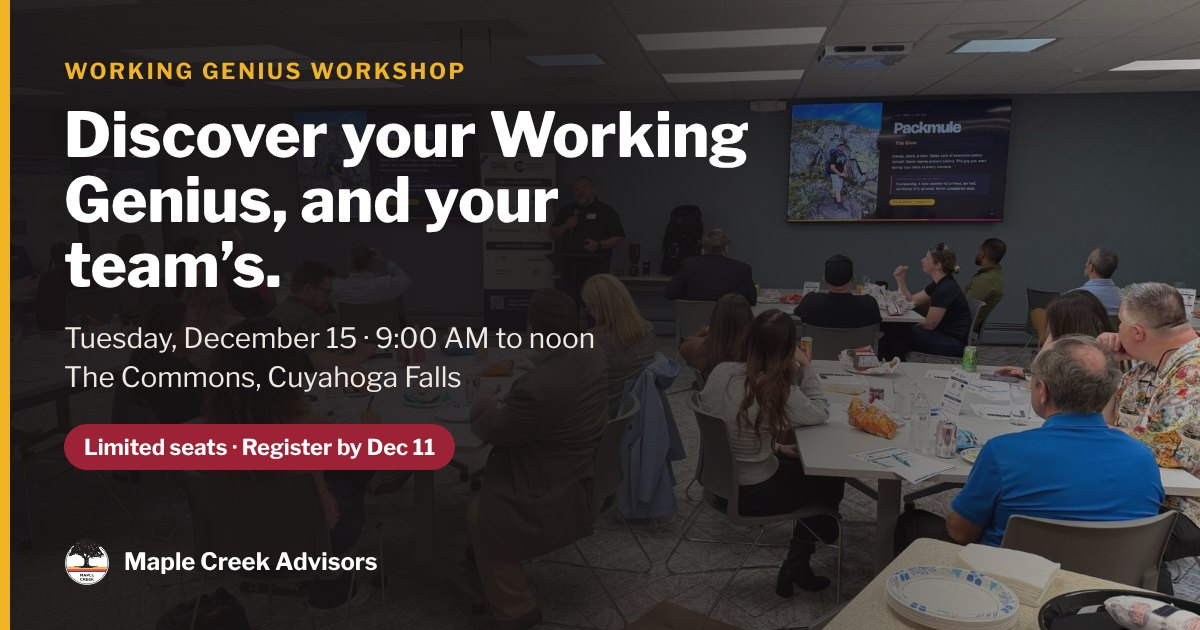
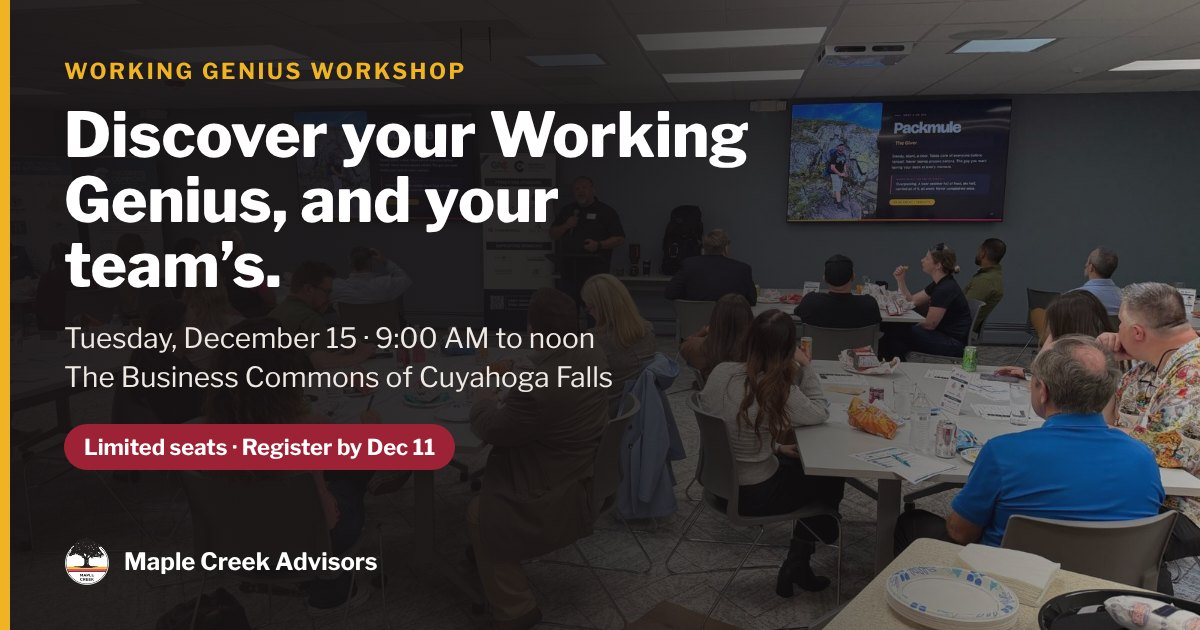
Regenerate event link previews with the full venue name
Claude-Session: https://claude.ai/code/session_01T83r77Z5JHMrRA2ym1GXY8

Changed region(s): [[0.0925, 0.573, 0.5242, 0.6333]]

diff --git a/DECISIONS.md b/DECISIONS.md
@@ -124,3 +124,4 @@ Choices made in the first build, with the reason for each. Founders can reverse 
 | 2026-11-28 | Event callout banners (Working Genius, Speaking, Grow your team, BUILD pages) changed from evergreen to the theme red (`--brand-red`) so they stand out (Matt). The bold label is now white instead of gold: gold on red measures 4.12:1, below the 4.5:1 needed for text at this size; white on red is 7.74:1. |
 | 2026-11-28 | Holiday party RSVP linked to RegFox (https://buildowners.regfox.com/holiday-party-2026, from Matt; form checked: Thursday, December 17, 2026, Individual RSVP). Hero button, sticky dock, and RSVP section open it in a new tab; the email RSVP fallback is gone; Event offer URL points to it. |
 | 2026-11-28 | Venue name brought in line with "The Business Commons of Cuyahoga Falls" in the party search description, both events' link-preview alt text, the workshop photo alt and caption, and the home events line (Matt). The two link-preview images still show "The Commons, Cuyahoga Falls" as artwork. |
+| 2026-11-28 | Both event link-preview images regenerated with "The Business Commons of Cuyahoga Falls" (scripts/event-og.mjs updated). RegFox header images remade with the full venue and Suite 200 and sent to Matt (not part of the site). |
